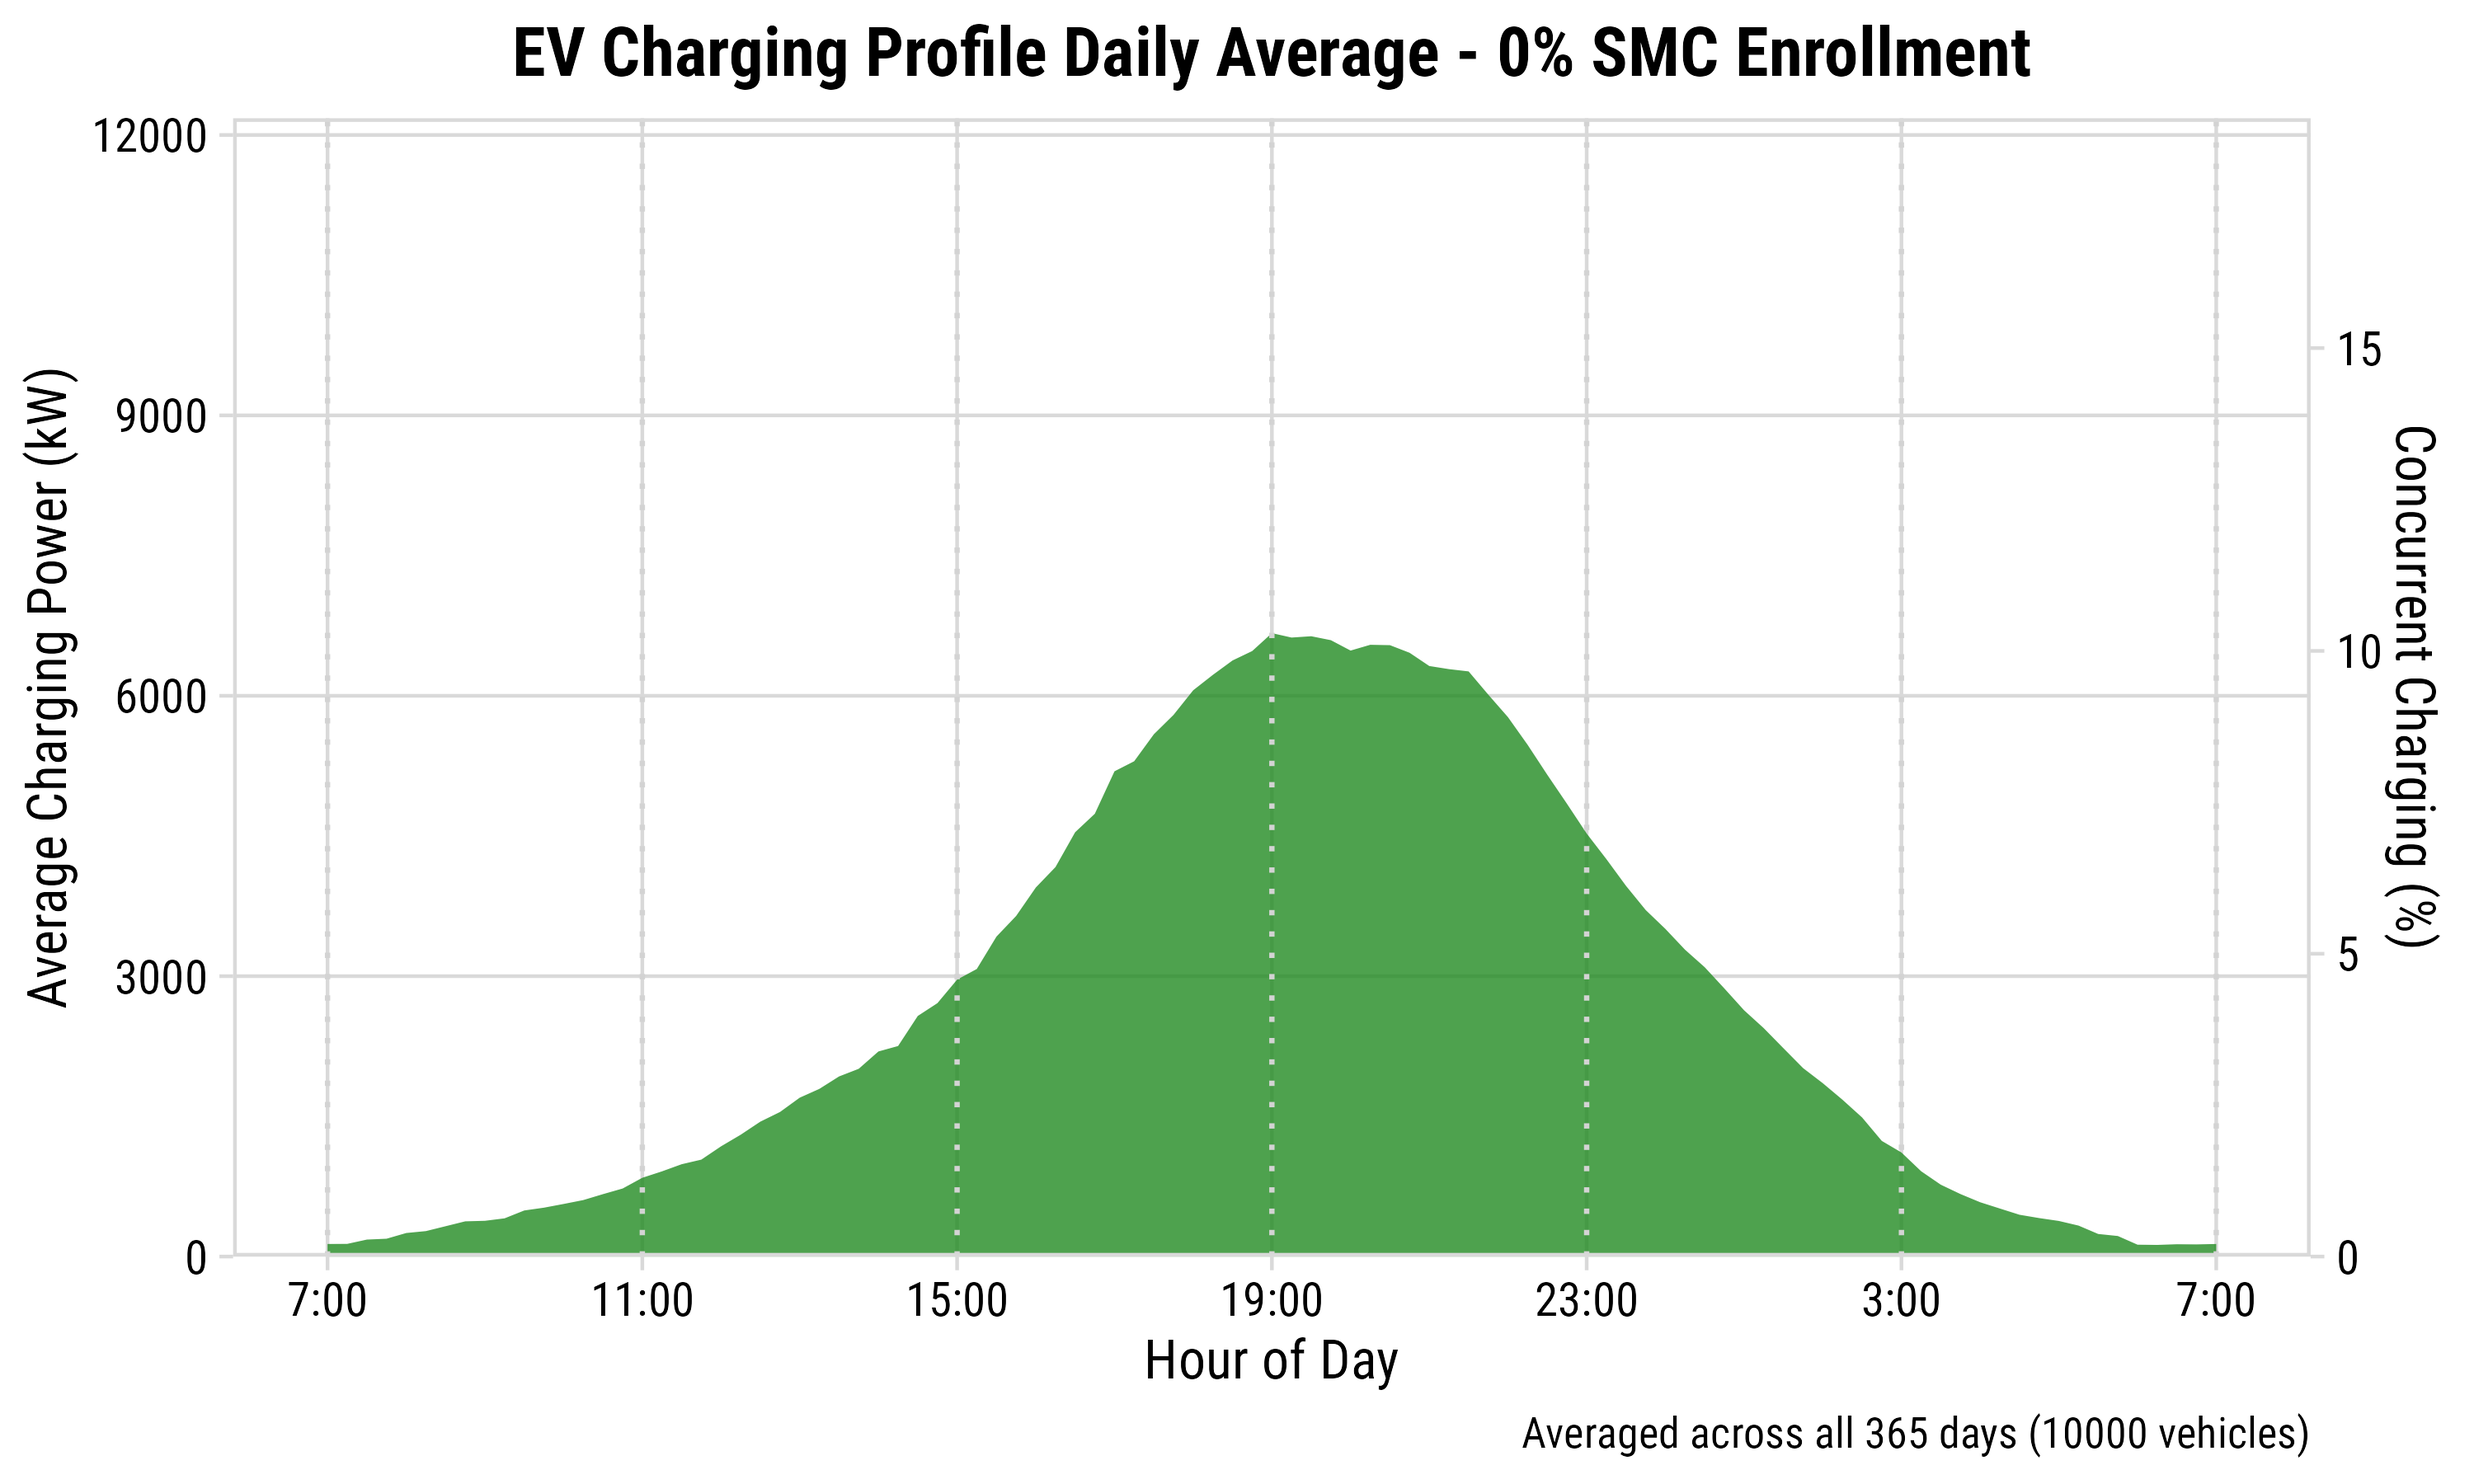
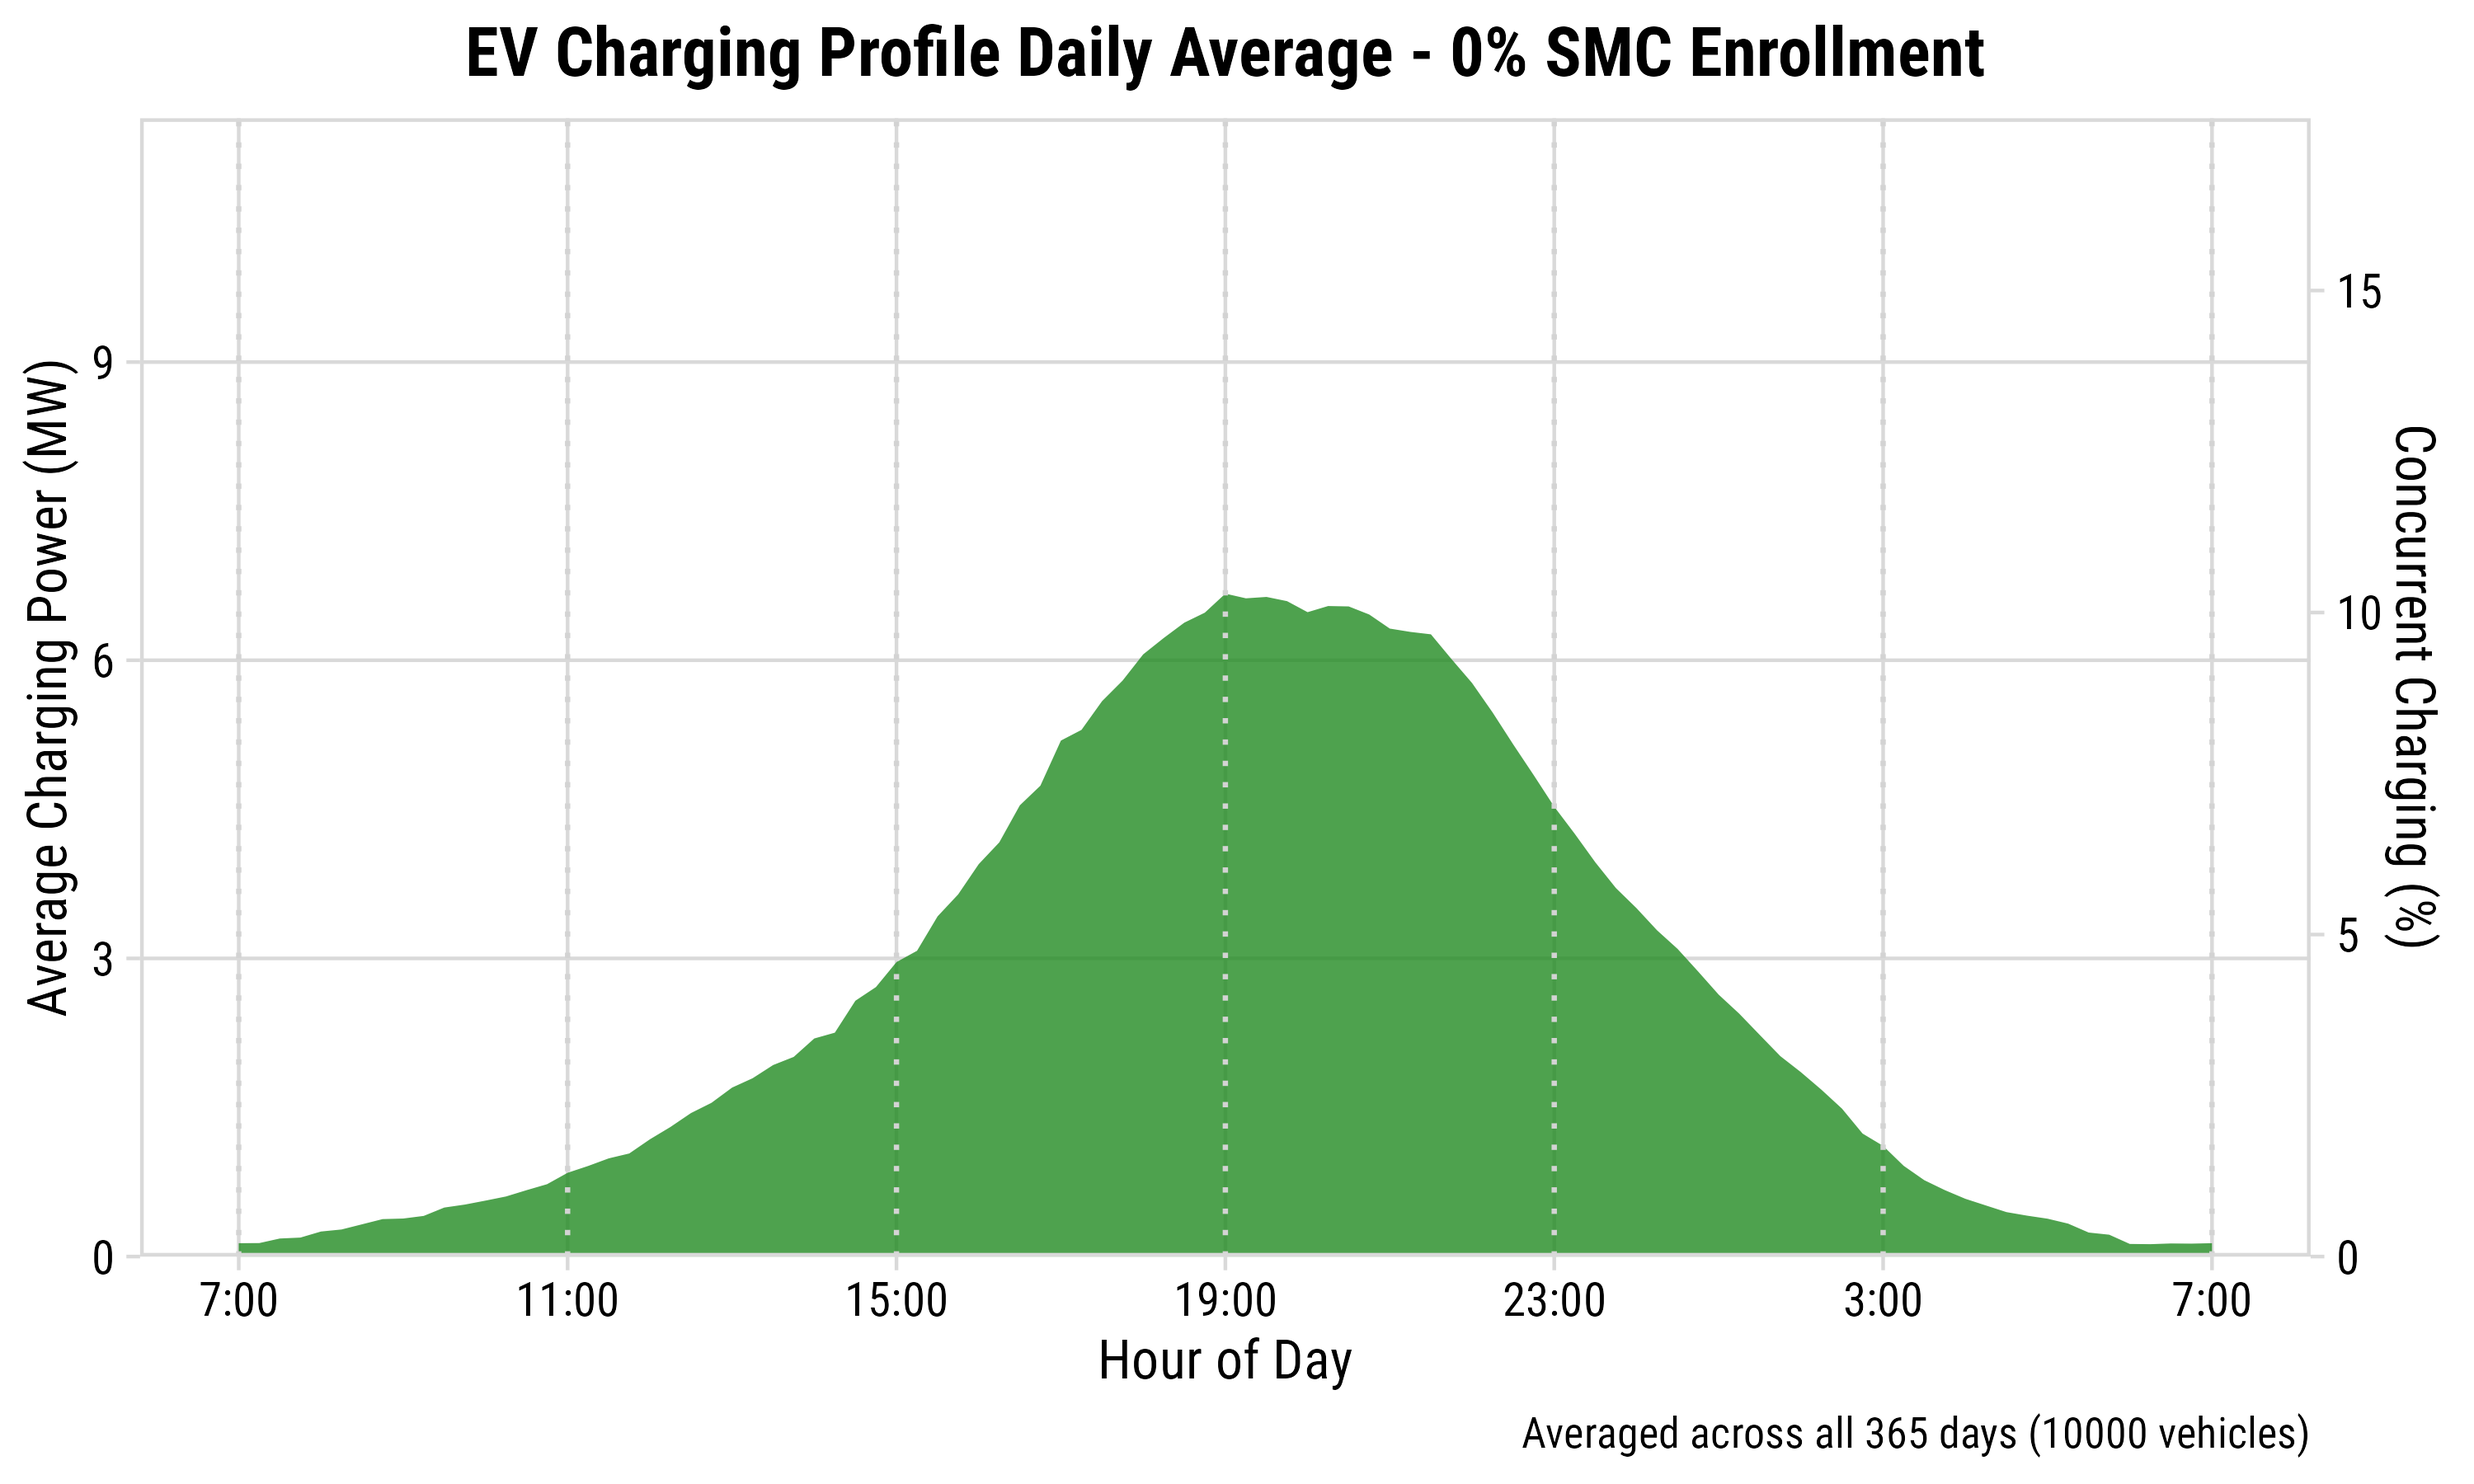
feat: add Approach panels and refine Study 2 slides and notes

diff --git a/styles/slides.css b/styles/slides.css
@@ -65,6 +65,43 @@ th {
   box-shadow: 0 4px 8px rgba(0, 0, 0, 0.3);
 }
 
+/* Approach panel on Research Questions slides */
+.approach {
+  max-width: 80%;
+  margin: 1em auto 0;
+  background-color: #DFE8EC;
+  border: 1px solid rgba(44, 62, 80, 0.35);
+  border-radius: 12px;
+  padding: 12px 30px 16px;
+  text-align: center;
+  font-size: 28px;
+  line-height: 1.5;
+  box-shadow: 0 4px 8px rgba(0, 0, 0, 0.08);
+}
+
+.approach-title {
+  font-weight: bold;
+  font-size: 32px;
+  color: #ED6D46;
+}
+
+.approach hr {
+  border: none;
+  border-top: 2px solid #ED6D46;
+  opacity: 0.45;
+  margin: 6px auto 10px;
+}
+
+.approach ol {
+  text-align: left;
+  margin: 0 auto;
+  width: fit-content;
+}
+
+.approach ol li {
+  margin: 6px 0;
+}
+
 .grid-container {
   display: grid;
   gap: 10px;
